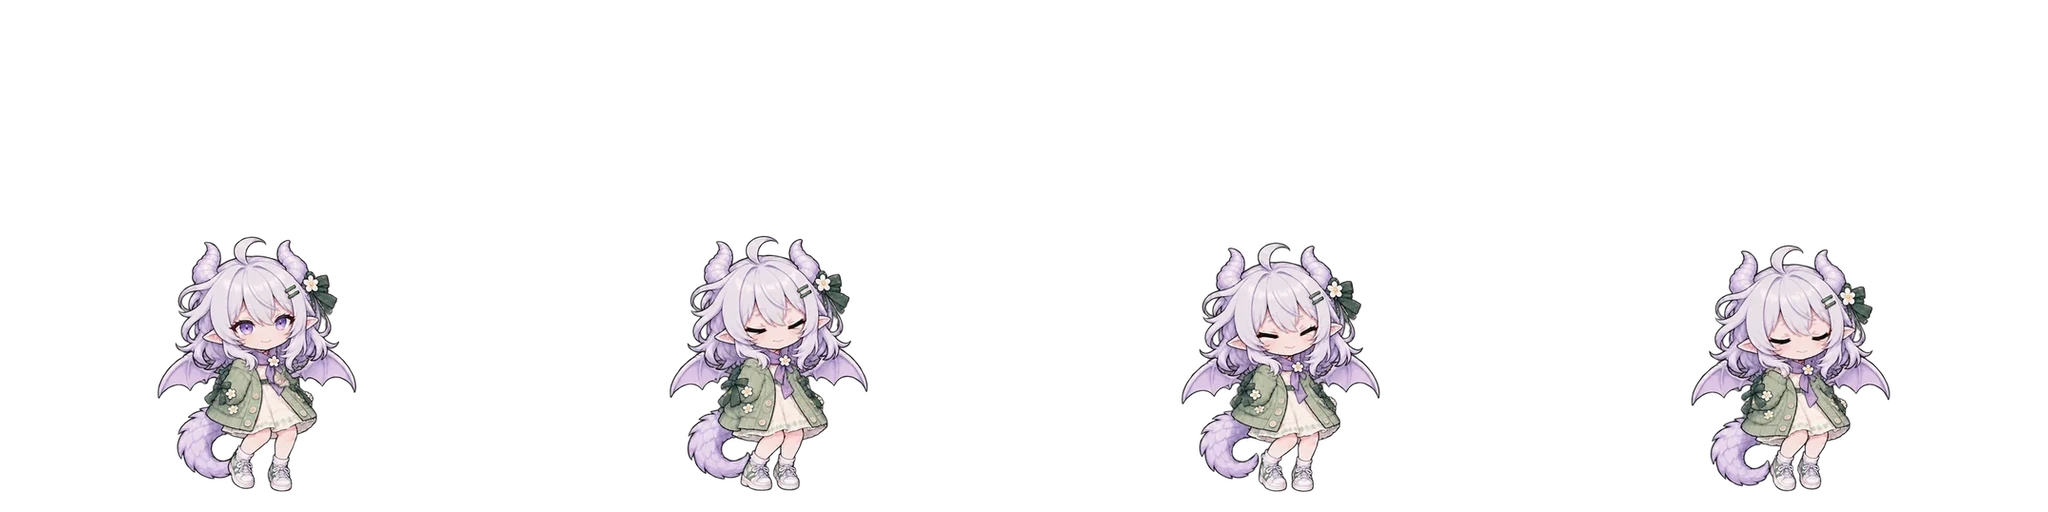
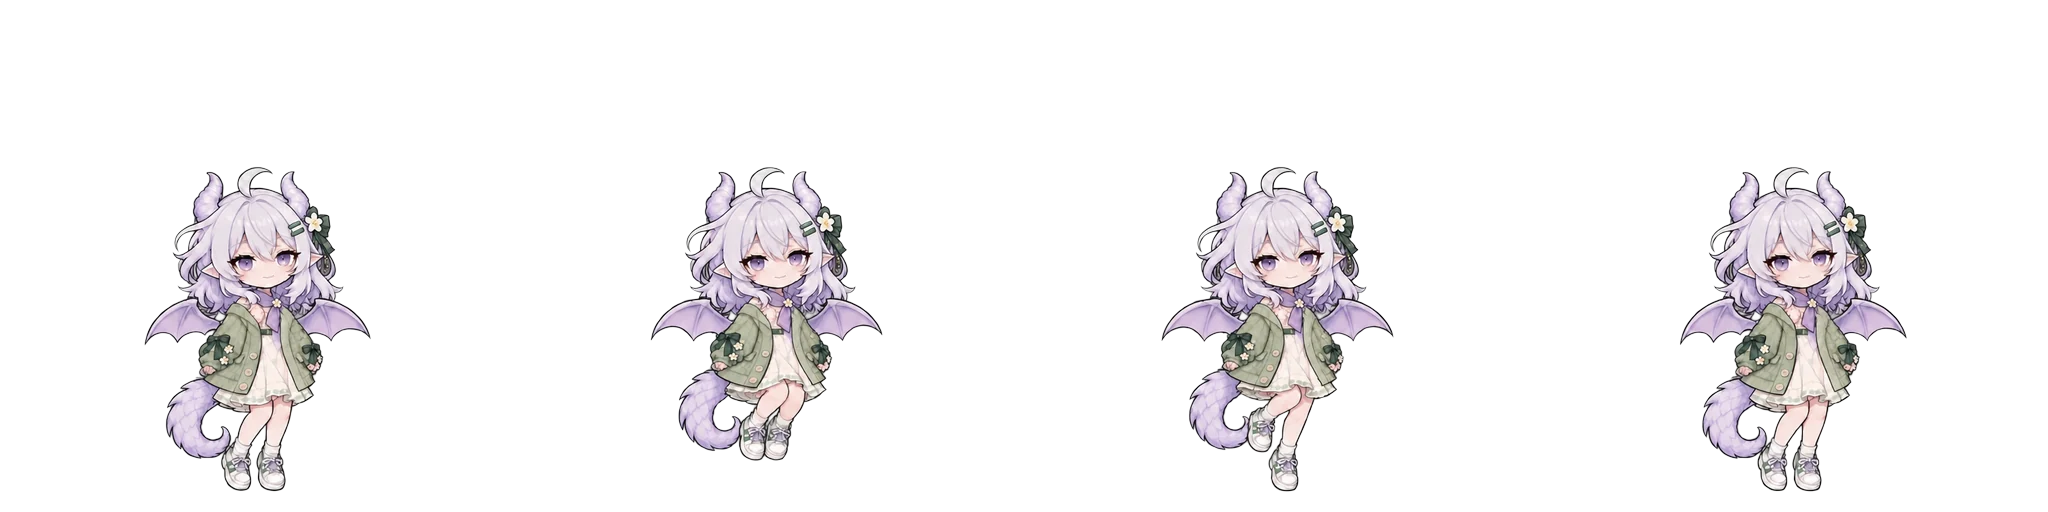
fix(pet): restore body proportions in falls and berry snacking

diff --git a/regular/pet_actions_motion.py b/regular/pet_actions_motion.py
@@ -151,3 +151,114 @@ ACTIONS["motion_fly_flap_slow"]["prompt"] += (
     "Keep the head, face size, torso, hands and suspended feet identical across all four frames. "
     "The pose must be airborne, not standing. No substitute body bobbing for wing articulation."
 )
+
+# Match the shipped idle anatomy, not the old short-bodied fall drawings.
+_FALL_HEADER = (
+    "Transparent 1024x1024 animation sheet, exactly four full-body frames in a 2x2 grid "
+    "of 512px cells. Image 1 is the original adult chibi dragon-woman identity. Image 2 "
+    "is her EXACT shipped idle figure and is authoritative for anatomy, clothes, camera "
+    "and style. Image 3 shows normal airborne wings and legs. Preserve the silver-lilac "
+    "hair, horns, pointed ears, flower clip, scarf, sage cardigan, cream dress, socks, "
+    "sneakers, two bat wings and one tail. Exactly two arms, two human hands, two legs. "
+    "CRITICAL: copy Image 2's head diameter AND neck-flower-to-center-dress-hem length, "
+    "shoulder-to-hip length, thighs, shins and shoes. Bending knees must NOT shorten the "
+    "torso or make a tiny baby body under the same head. The cardigan and dress remain "
+    "their full original length. Same camera, head, body scale and torso position in all "
+    "cells. Both feet stay airborne. The silhouette can naturally shorten with curled "
+    "knees: do not resize the person to equalize silhouette heights. Full horns, fingers, "
+    "wings, tail and shoes inside each cell with margin. No standing/landing pose, floor, "
+    "shadow, props, words, symbols, motion trails or backdrop. Genuine alpha-zero background."
+)
+for _name, _direction in {
+    "motion_fall_upward": (
+        "Four stages of an airborne upward-toss adjustment: 1 arms lift beside her head, "
+        "full-length torso extended, knees trail softly, eyes open; 2 elbows soften, knees "
+        "bend slightly behind her and wings open; 3 arms spread halfway, wings check the "
+        "motion and one lower leg relaxes; 4 return toward the first balanced airborne "
+        "pose with eyes open and both feet suspended. Repeatable, never land or stand."
+    ),
+    "motion_fall_flutter": (
+        "Four stages of an airborne flutter: 1 both small wing tips UP, arms loosely "
+        "spread at shoulder height, normal-length legs dangle and eyes open; 2 wings "
+        "HORIZONTAL, fingers relax and one ankle swings; 3 wing tips DOWN beside hips, "
+        "elbows soften and other ankle relaxes; 4 wings return halfway up, arms and legs "
+        "return toward frame 1, eyes open. Full torso stays fixed while wings articulate."
+    ),
+    "motion_fall_curl": (
+        "Four stages of a gentle airborne knee curl, never a ground crouch: 1 full-length "
+        "torso as Image 2, both arms relaxed close to her sides with exactly two hands "
+        "beside the hips and NO hands near the chest, knees softly forward, eyes open; 2 knees curl "
+        "a little closer without compressing the torso, wings open; 3 one lower leg "
+        "unbends gently while the other stays curled, tail adjusts; 4 restore frame 1 "
+        "with eyes open. Show real hip-knee-ankle joints, unchanged cardigan/dress length."
+    ),
+    "motion_fall_reach": (
+        "Four stages of an airborne balancing reach: 1 arms extend sideways below "
+        "shoulders, palms open, wings open, normal-length legs hang with soft knees, "
+        "eyes open; 2 elbows bend toward chest and one knee bends a little; 3 arms "
+        "extend again, opposite knee relaxes, tail counterbalances; 4 settle toward "
+        "frame 1 with open eyes and both feet suspended. Full-length torso stays stable."
+    ),
+}.items():
+    ACTIONS[_name].update(
+        prompt_header=_FALL_HEADER, prompt=_direction, style="idle",
+        extra_refs=["motion_fly_flap_slow"], fixed_ground=True,
+        calibration_reference="idle", calibration_frames=[0, 3],
+    )
+
+# These landing endpoints had the same short-body problem even when standing.
+_LAND_HEADER = (
+    "Transparent 1024x1024 four-frame animation sheet in a 2x2 grid of 512px cells. "
+    "Image 1 is the original adult chibi dragon-woman identity. Image 2 is her exact "
+    "shipped IDLE anatomy, outfit and rendering. Image 3 shows airborne wing anatomy. "
+    "Copy the idle head diameter AND full torso, neck-flower-to-center-dress-hem length, "
+    "hips, thighs, shins and shoes. Preserve silver-lilac hair, two horns, pointed ears, "
+    "flower clip, scarf, sage cardigan, cream dress, socks, sneakers, two small bat "
+    "wings and one scaled tail. Exactly two connected arms, two hands and two legs. "
+    "Fixed camera and scale, one common foot-support line. Bending knees is allowed "
+    "but must NOT compress the cardigan/dress or turn the body into a tiny baby under "
+    "the same head. Final standing frame MUST have the same head, torso and legs as "
+    "Image 2, not just the same overall bounding height. Complete figure inside each "
+    "cell with transparent margin. No drawn floor, cast shadow, background, props, "
+    "words, symbols, speed lines or extra limbs. Genuine alpha-zero background."
+)
+for _name, _direction in {
+    "motion_fly_land": (
+        "Four gentle landing stages: 1 airborne with wings open and normal-length "
+        "legs reaching down, feet just above the common support line; 2 toes touch "
+        "that line, knees soften slightly and arms balance; 3 both soles settle, "
+        "knees bend a little more and wings ease halfway closed; 4 fully straighten "
+        "to the EXACT idle torso/leg proportions, shoulders relaxed and wings folded. "
+        "Keep the same head size throughout. Small calm face, no collapse or squash."
+    ),
+    "motion_land_one_foot": (
+        "Four one-foot landing stages: 1 one normal-length leg reaches toward the "
+        "common support line while the other knee is softly lifted, arms balance; "
+        "2 the first foot supports her as the second lowers; 3 both feet touch and "
+        "knees gently absorb the landing, full torso length preserved; 4 stand "
+        "securely with the SAME full torso and leg lengths as Image 2, arms relax "
+        "beside her, wings settle. One consistent camera, no shrinking or pose jump."
+    ),
+    "motion_land_wing": (
+        "Four supported landing recovery stages: 1 both feet on the common support "
+        "line, knees gently bent and wings wide for balance; 2 straighten the knees "
+        "halfway while wings fold halfway; 3 stand almost upright, lower both hands "
+        "and ease shoulders; 4 fully upright in the SAME anatomy and proportions as "
+        "the idle reference, both feet planted and small wings folded. Knees may bend "
+        "but the dress and cardigan retain their original length in every frame."
+    ),
+}.items():
+    ACTIONS[_name].update(
+        prompt_header=_LAND_HEADER, prompt=_direction, style="idle",
+        extra_refs=["motion_fly_flap_slow"], fixed_ground=True,
+        calibration_reference="idle", calibration_frames=[0, 3],
+    )
+
+ACTIONS["motion_fly_land"]["prompt"] += (
+    " All four cells MUST use the SAME head width and neck-to-hem length, matching "
+    "the final standing figure. Keep the horns and ahoge at least 40px from the "
+    "top of every cell. Frame 1 floats only a SMALL distance above the common "
+    "foot line: do not move or enlarge the figure toward the top border. Frame 2 "
+    "is not a smaller copy of frame 1. Knee bending changes joint angles only, "
+    "never the scale of the head or torso. Fixed camera; four equal-size characters."
+)

diff --git a/regular/pet_actions_dragon.py b/regular/pet_actions_dragon.py
@@ -130,3 +130,34 @@ for _name in (
 ):
     ACTIONS[_name]["loop"] = False
     ACTIONS[_name]["duration"] = 2.0
+
+# Keep the berry loop's prop, but use idle anatomy rather than its old short body.
+ACTIONS["dragon_snack_berry"].update(
+    style="idle", extra_refs=["dragon_snack_berry_ref"],
+    calibration_reference="idle", calibration_frames=[0, 3], fixed_ground=True,
+    prompt_header=(
+        "Transparent 1024x1024 animation sheet, four complete full-body frames in a "
+        "2x2 grid of 512px cells. Image 1 defines the original adult chibi dragon "
+        "woman. Image 2 is the exact shipped idle and is authoritative for head "
+        "diameter, FULL torso, collar-flower-to-dress-hem length, hips, thighs, shins "
+        "and sneakers. Preserve the original clothes, horns, hair, flower, wings "
+        "and tail. Image 3 supplies ONLY the tiny brown bowl, purple berries and "
+        "hand action: do NOT copy its shortened baby torso or short legs. Exactly "
+        "two arms, two human hands, two legs. Fixed camera, constant head AND body "
+        "proportions in every cell, feet planted on one common support line. Full "
+        "figure with margin, genuine alpha-zero background, no shadow or floor, "
+        "no extra objects, letters, symbols or limbs."
+    ),
+    prompt=(
+        "Stand in the same relaxed full-length idle stance throughout. The hand "
+        "on the viewer's right cradles the SAME tiny shallow warm-brown bowl of "
+        "dark purple berries as Image 3 at waist height in all four frames. The "
+        "other hand takes one berry, never a spoon. Frame 1 fingertips pick a "
+        "berry above the bowl, eyes open; frame 2 bring it to her lips and taste; "
+        "frame 3 finish the small bite with a quiet pleased expression; frame 4 "
+        "lower the empty hand back beside the bowl and reopen her eyes, matching "
+        "frame 1 for a gentle loop. Bowl size, shape, color and holding hand stay "
+        "unchanged. Her full-length cardigan and cream dress remain the exact "
+        "idle length; no body compression under the head."
+    ),
+)
